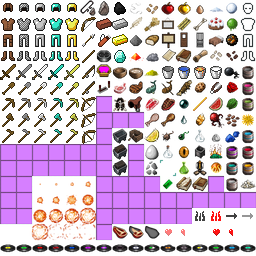
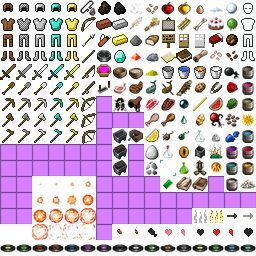
GUI

diff --git a/app/src/main/java/com/solverlabs/worldcraft/ui/HealthBar.java b/app/src/main/java/com/solverlabs/worldcraft/ui/HealthBar.java
@@ -12,14 +12,14 @@ public class HealthBar {
     private static final int FULL_HEART = 2;
     private static final int HALF_HEART = 1;
     private static final int HEART_COUNT = 10;
-    private static final float SCALE_VALUE = 25.0f;
+    private static final float SCALE_VALUE = 50.0f;
     private static TexturedShape emptyHeartActiveShape;
     private static TexturedShape emptyHeartShape;
     private static TexturedShape fullHeartActiveShape;
     private static TexturedShape fullHeartShape;
     private static TexturedShape halfHeartActiveShape;
     private static TexturedShape halfHeartShape;
-    private final BoundingRectangle bounds = new BoundingRectangle(160.0f, 65.0f, 320.0f, 80.0f);
+    private final BoundingRectangle bounds = new BoundingRectangle(140.0f, 70.0f, 300.0f, 80.0f);
     private final Player player;
 
     public HealthBar(Player player) {

diff --git a/app/src/main/java/com/solverlabs/worldcraft/ui/FoodBar.java b/app/src/main/java/com/solverlabs/worldcraft/ui/FoodBar.java
@@ -12,8 +12,8 @@ public class FoodBar {
     public static final int MARGIN = 10;
     private static final TexturedShape[] BAR_ITEM_SHAPES = new TexturedShape[3];
     private static final int FOOD_LEVELS_PER_BAR_ITEM = 2;
-    private static final float SCALE_VALUE = 25.0f;
-    private final BoundingRectangle bounds = new BoundingRectangle(400.0f, 65.0f, 320.0f, 80.0f);
+    private static final float SCALE_VALUE = 50.0f;
+    private final BoundingRectangle bounds = new BoundingRectangle(340.0f, 70.0f, 300.0f, 80.0f);
     private final Player player;
 
     public FoodBar(Player player) {

diff --git a/app/src/main/java/com/solverlabs/worldcraft/ui/GUI.java b/app/src/main/java/com/solverlabs/worldcraft/ui/GUI.java
@@ -60,9 +60,18 @@ public class GUI {
     public FurnaceMenu furnaceMenu;
     public Hand hand;
     public HealthBar healthBar;
+    /**
+     * Виджет с быстрым доступом к предметам
+     */
     public Hotbar hotbar;
     public Interaction interaction;
+    /**
+     * Виджет для открытия инвенторя
+     */
     public InventoryMenu inventoryMenu;
+    /**
+     * Кнопка прыжок
+     */
     public CustomTapPad jumpTap;
     public CustomTapPad leaveBedTap;
     public TapPad.Listener leaveBedTapListener;
